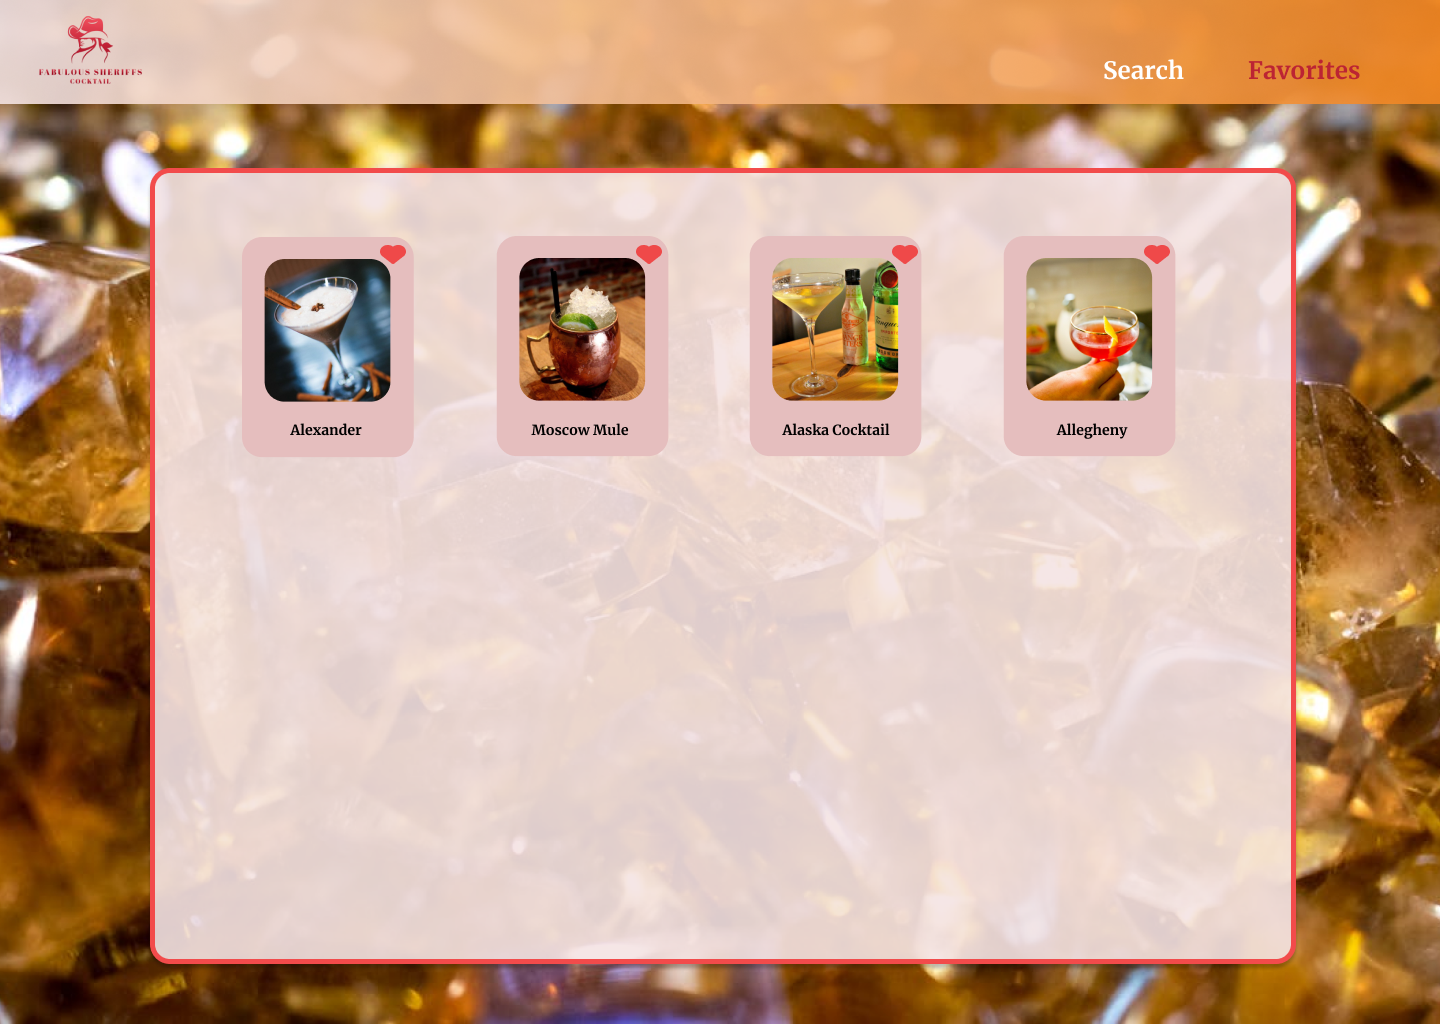
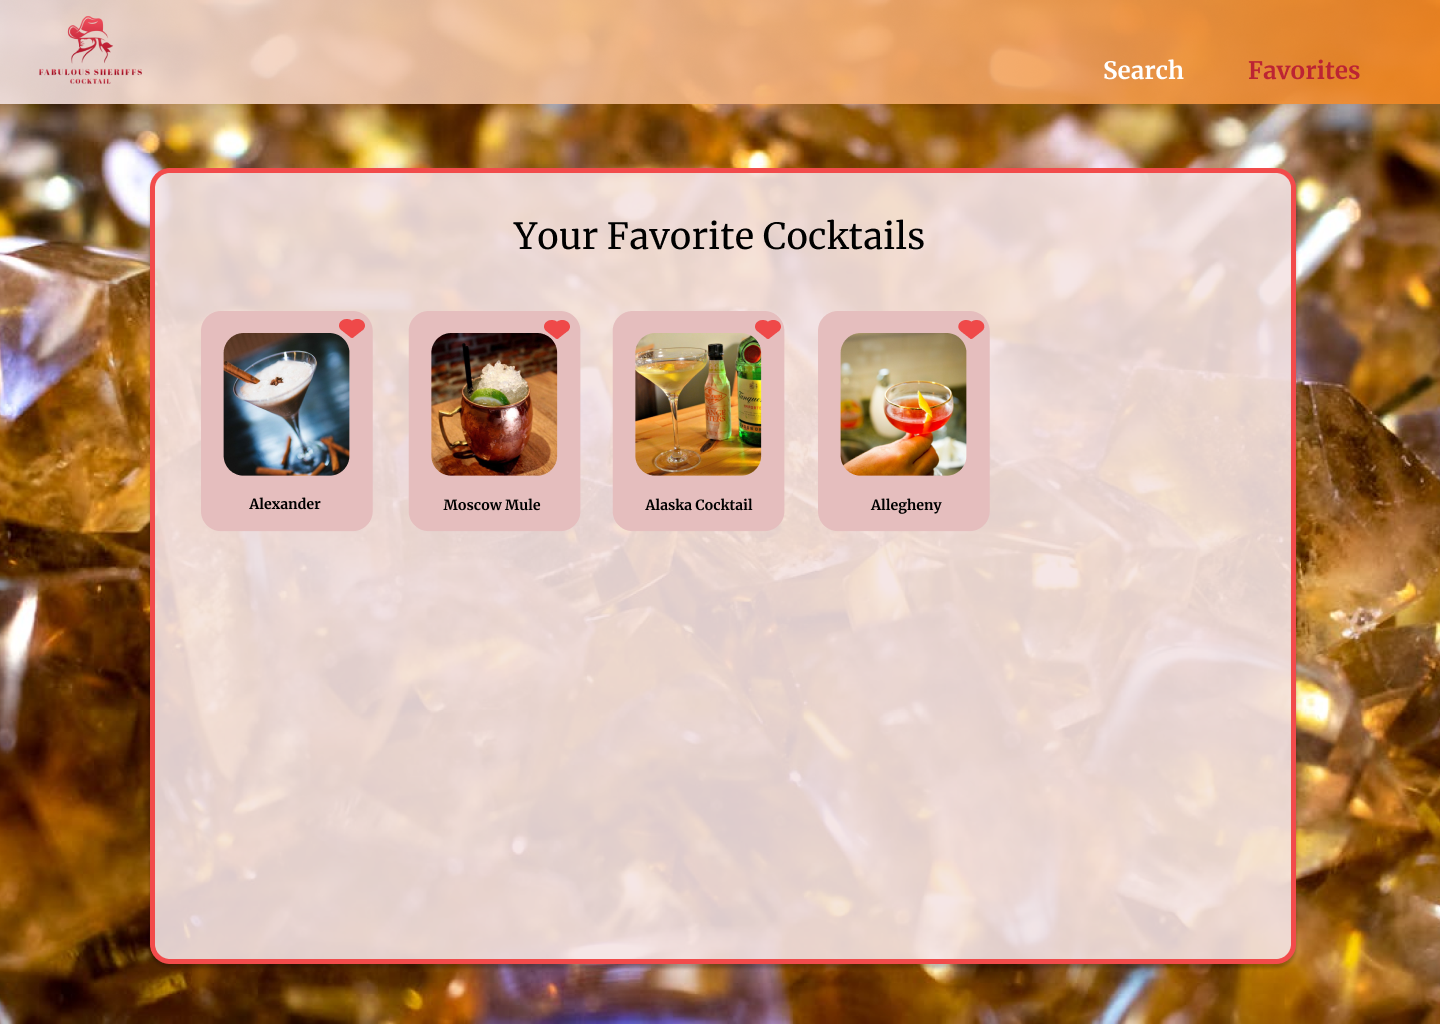
40 favorites page basic styling (#84)
* Add basic styles to make the page visually appealing.

* Add title

---------

Changed region(s): [[0.125, 0.2188, 0.8438, 0.5312]]

diff --git a/src/pages/FavoritesPage.tsx b/src/pages/FavoritesPage.tsx
@@ -3,6 +3,8 @@ import GlobalStateContext from "../context/GlobalStateContext"
 import CocktailCard from "../components/CocktailCard";
 import { Drink } from "../type";
 import { useNavigate } from 'react-router-dom';
+import '../styles/FavoritesPage.css'
+
 
 export default function FavoritesPage() {
 
@@ -39,7 +41,13 @@ export default function FavoritesPage() {
                         ))
                     ) : (
                         // If no favorites are found, display a message to the user
-                        <h4>No favorite cocktails found.</h4>
+                        <h4>No favorite cocktails found.
+                        <img
+                            src='src/assets/pexels-badun-18782633.jpg'
+                            alt='empty glass'
+                            style={{ width: '100%' }}
+                        />
+                    </h4>
                     )
                 }
             </section>

diff --git a/src/styles/FavoritesPage.css b/src/styles/FavoritesPage.css
@@ -1,0 +1,51 @@
+
+h2 {
+    padding: 2rem;
+}
+
+/* Responsiveness */
+
+/* --------------------------------------------------------------------- */
+/* Large screens */
+@media (min-width: 1200px) {
+    .card-container {
+      grid-template-columns: repeat(5, 1fr); 
+    }
+  }
+  
+  /* Tablets */
+  @media (max-width: 992px) {
+    h2 {
+        padding: 1.5rem;
+    }
+  
+    .card-container {
+      grid-template-columns: repeat(3, 1fr); 
+    }
+  }
+  
+  /* Mobile */
+  @media (max-width: 768px) {
+    h2 {
+        padding: 1rem;
+    }
+    .card-container {
+      grid-template-columns: repeat(2, 1fr); 
+    }
+  }
+  
+  /* Small mobile */
+  @media (max-width: 480px) {
+
+    h2 {
+        padding: 1rem;
+    }
+
+    .card-container {
+      grid-template-columns: repeat(1, 1fr); 
+    }
+  
+  }
+  
+  /* --------------------------------------------------------------------- */
+  
